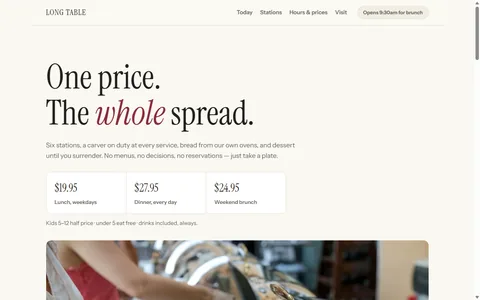
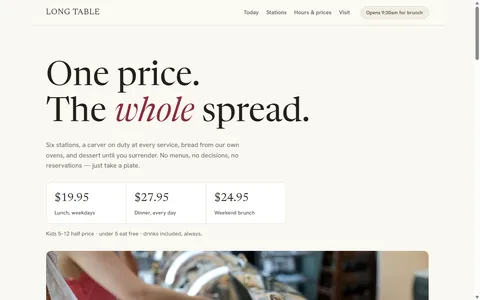
Swap LONG TABLE to Newsreader over Hanken Grotesk
The design detector flagged Instrument Serif and Instrument Sans as
overused - both are on the list of faces AI-generated UIs converge on,
and the collection's rule is that type carries each template's
personality. Newsreader keeps the plain-spoken editorial voice with a
better italic and oldstyle figures in the price strip; Hanken Grotesk
keeps the body neutral without being Inter-adjacent. Thumbnail
re-shot to match.

diff --git a/templates/buffet-longtable/css/style.css b/templates/buffet-longtable/css/style.css
@@ -1,7 +1,7 @@
 /* ==========================================================================
    LONG TABLE — all-day buffet
-   The quiet one: warm white, ink, one beet-red accent. Instrument Serif for
-   display, Instrument Sans for everything else. No overlays, no drawers, no
+   The quiet one: warm white, ink, one beet-red accent. Newsreader for
+   display, Hanken Grotesk for everything else. No overlays, no drawers, no
    tricks — the page is a single readable column with a seven-day rotation.
    ========================================================================== */
 
@@ -24,13 +24,13 @@ html { scroll-behavior: smooth; }
 body {
   background: var(--bg);
   color: var(--ink);
-  font-family: 'Instrument Sans', 'Segoe UI', sans-serif;
+  font-family: 'Hanken Grotesk', 'Segoe UI', sans-serif;
   font-size: 17px;
   line-height: 1.6;
   -webkit-font-smoothing: antialiased;
 }
 
-h1, h2 { font-family: 'Instrument Serif', serif; font-weight: 400; line-height: 1.08; }
+h1, h2 { font-family: 'Newsreader', serif; font-weight: 400; line-height: 1.08; }
 h1 em, h2 em { font-style: italic; color: var(--beet); }
 
 img { display: block; max-width: 100%; height: auto; }
@@ -55,7 +55,7 @@ main { max-width: 1100px; margin: 0 auto; padding: 0 clamp(18px, 4vw, 40px); }
 }
 
 .mark {
-  font-family: 'Instrument Serif', serif; font-size: 1.35rem; letter-spacing: .06em;
+  font-family: 'Newsreader', serif; font-size: 1.35rem; letter-spacing: .06em;
   color: var(--ink); text-decoration: none; white-space: nowrap;
 }
 
@@ -88,7 +88,7 @@ main { max-width: 1100px; margin: 0 auto; padding: 0 clamp(18px, 4vw, 40px); }
   flex: 1 1 180px; background: var(--card); padding: 18px 22px;
   display: grid; gap: 2px;
 }
-.price-strip strong { font-family: 'Instrument Serif', serif; font-size: 1.9rem; font-weight: 400; }
+.price-strip strong { font-family: 'Newsreader', serif; font-size: 1.9rem; font-weight: 400; }
 .price-strip span { color: var(--ink-soft); font-size: .88rem; font-weight: 600; }
 
 .kids-note { color: var(--ink-soft); font-size: .92rem; margin-bottom: 34px; }
@@ -149,7 +149,7 @@ section h2 { font-size: clamp(2rem, 4.5vw, 3rem); margin-bottom: 8px; padding-to
   font-size: .8rem; letter-spacing: .1em; text-transform: uppercase;
   color: var(--ink-soft); font-weight: 700; margin-bottom: 8px;
 }
-.line-card .big { font-family: 'Instrument Serif', serif; font-size: 1.45rem; line-height: 1.25; }
+.line-card .big { font-family: 'Newsreader', serif; font-size: 1.45rem; line-height: 1.25; }
 .line-card .theme { color: var(--beet); font-style: italic; }
 .line-card ul { list-style: none; margin-top: 8px; }
 .line-card li { padding: 3px 0; color: var(--ink-soft); }
@@ -165,7 +165,7 @@ section h2 { font-size: clamp(2rem, 4.5vw, 3rem); margin-bottom: 8px; padding-to
 }
 .station img { width: 100%; height: 100%; object-fit: cover; aspect-ratio: auto; }
 .station-body { padding: 20px 22px; }
-.station-body h3 { font-family: 'Instrument Serif', serif; font-size: 1.4rem; font-weight: 400; margin-bottom: 6px; }
+.station-body h3 { font-family: 'Newsreader', serif; font-size: 1.4rem; font-weight: 400; margin-bottom: 6px; }
 .station-body .blurb { color: var(--ink-soft); font-size: .93rem; margin-bottom: 12px; }
 .station-body ul { list-style: none; font-size: .9rem; }
 .station-body li { padding: 2.5px 0; border-top: 1px dashed var(--line); color: var(--ink-soft); }
@@ -181,7 +181,7 @@ section h2 { font-size: clamp(2rem, 4.5vw, 3rem); margin-bottom: 8px; padding-to
   overflow: hidden; border-spacing: 0;
 }
 .hours caption {
-  text-align: left; font-family: 'Instrument Serif', serif; font-size: 1.25rem;
+  text-align: left; font-family: 'Newsreader', serif; font-size: 1.25rem;
   padding: 14px 18px 6px;
   background: var(--card); border: 1px solid var(--line); border-bottom: none;
   border-radius: var(--radius) var(--radius) 0 0;
@@ -196,7 +196,7 @@ section h2 { font-size: clamp(2rem, 4.5vw, 3rem); margin-bottom: 8px; padding-to
 /* ---------- Visit ---------- */
 
 .visit-cols { display: grid; grid-template-columns: repeat(3, minmax(0, 1fr)); gap: 28px; }
-.visit-cols h3 { font-family: 'Instrument Serif', serif; font-size: 1.3rem; font-weight: 400; margin-bottom: 8px; }
+.visit-cols h3 { font-family: 'Newsreader', serif; font-size: 1.3rem; font-weight: 400; margin-bottom: 8px; }
 .visit-cols p { color: var(--ink-soft); font-size: .95rem; }
 .visit-small { font-size: .86rem !important; margin-top: 6px; }
 
@@ -208,7 +208,7 @@ section h2 { font-size: clamp(2rem, 4.5vw, 3rem); margin-bottom: 8px; padding-to
   padding: 40px clamp(18px, 4vw, 40px) 50px;
   text-align: center; display: grid; gap: 8px; color: var(--ink-soft);
 }
-.foot-mark { font-family: 'Instrument Serif', serif; font-size: 1.3rem; letter-spacing: .06em; color: var(--ink); }
+.foot-mark { font-family: 'Newsreader', serif; font-size: 1.3rem; letter-spacing: .06em; color: var(--ink); }
 .foot-fine { font-size: .85rem; max-width: 64ch; margin: 6px auto 0; }
 
 /* ---------- Responsive ---------- */

diff --git a/templates/buffet-longtable/index.html b/templates/buffet-longtable/index.html
@@ -15,7 +15,7 @@
   <meta name="theme-color" content="#FAF8F3">
   <link rel="preconnect" href="https://fonts.googleapis.com">
   <link rel="preconnect" href="https://fonts.gstatic.com" crossorigin>
-  <link rel="stylesheet" href="https://fonts.googleapis.com/css2?family=Instrument+Serif:ital@0;1&family=Instrument+Sans:wght@400;500;600;700&display=swap">
+  <link rel="stylesheet" href="https://fonts.googleapis.com/css2?family=Newsreader:ital,opsz,wght@0,6..72,400..600;1,6..72,400..600&family=Hanken+Grotesk:wght@400;500;600;700&display=swap">
   <link rel="stylesheet" href="css/style.css">
 </head>
 <body>
